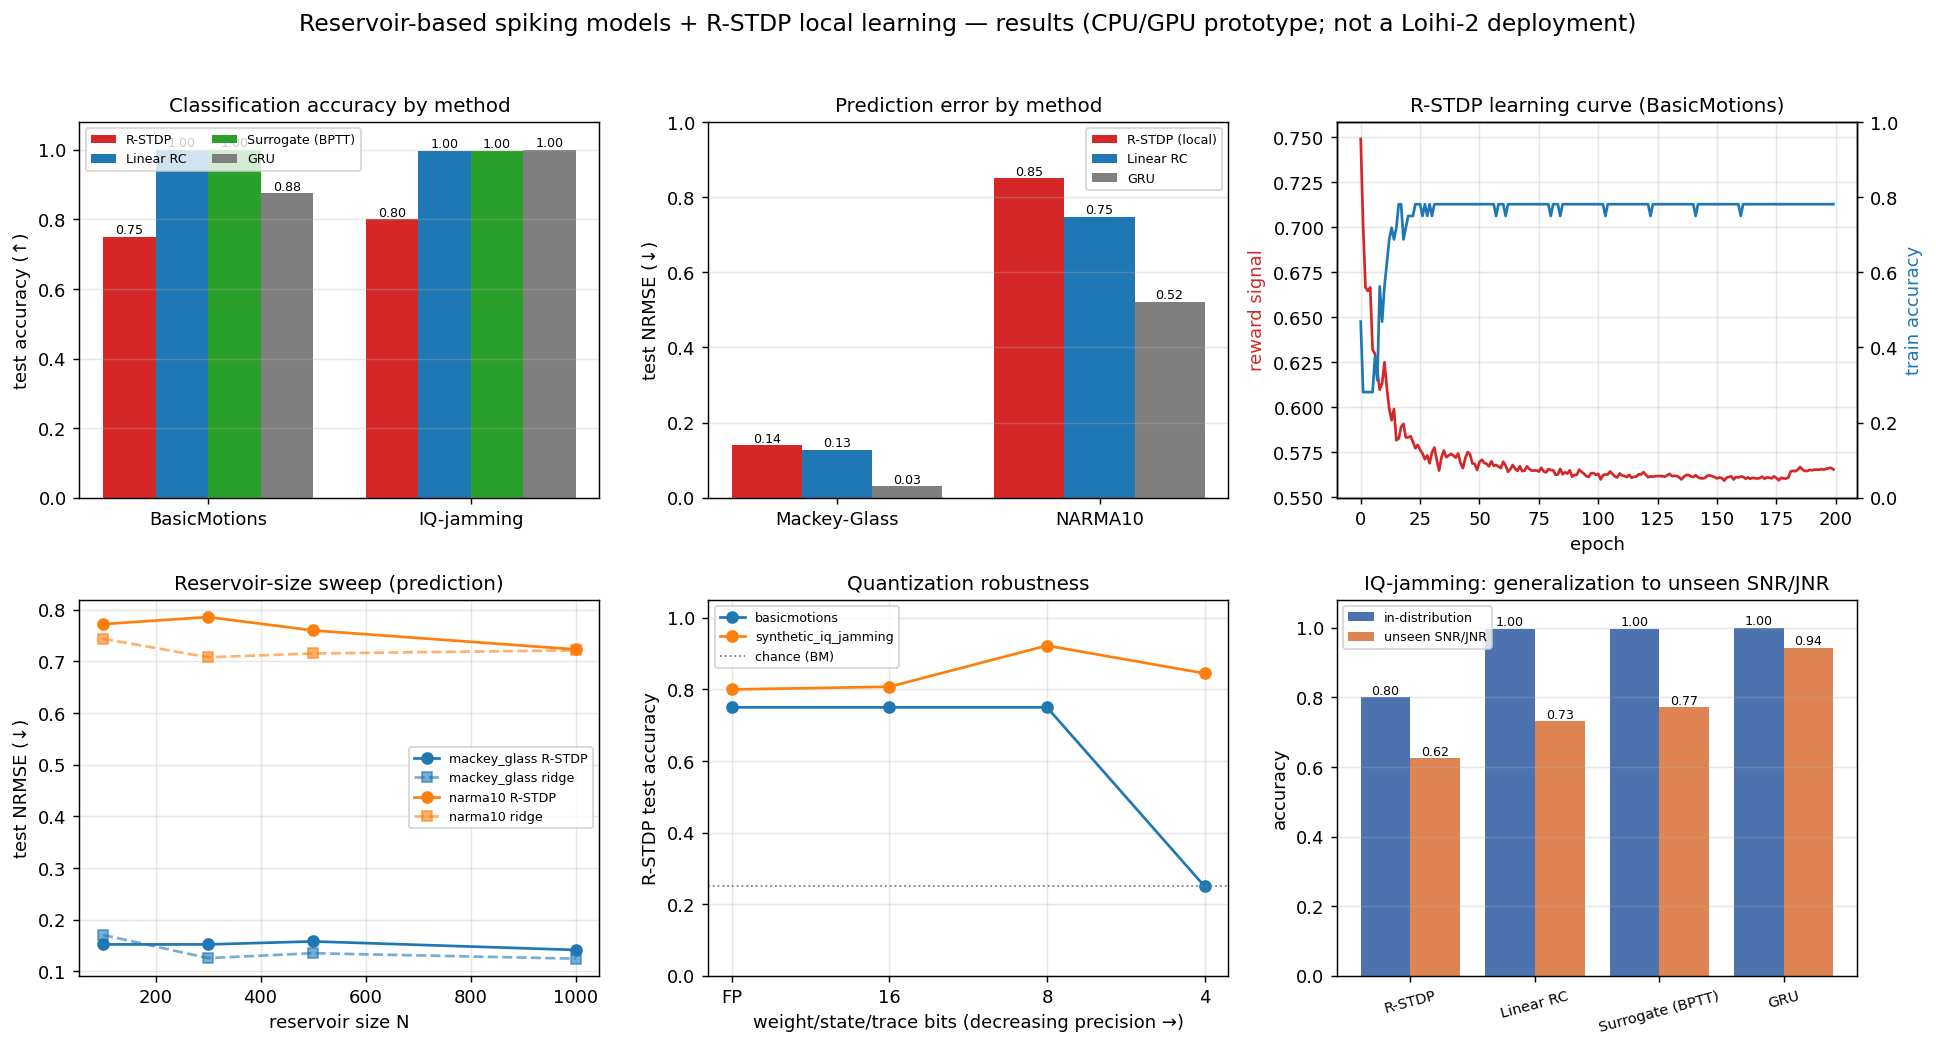
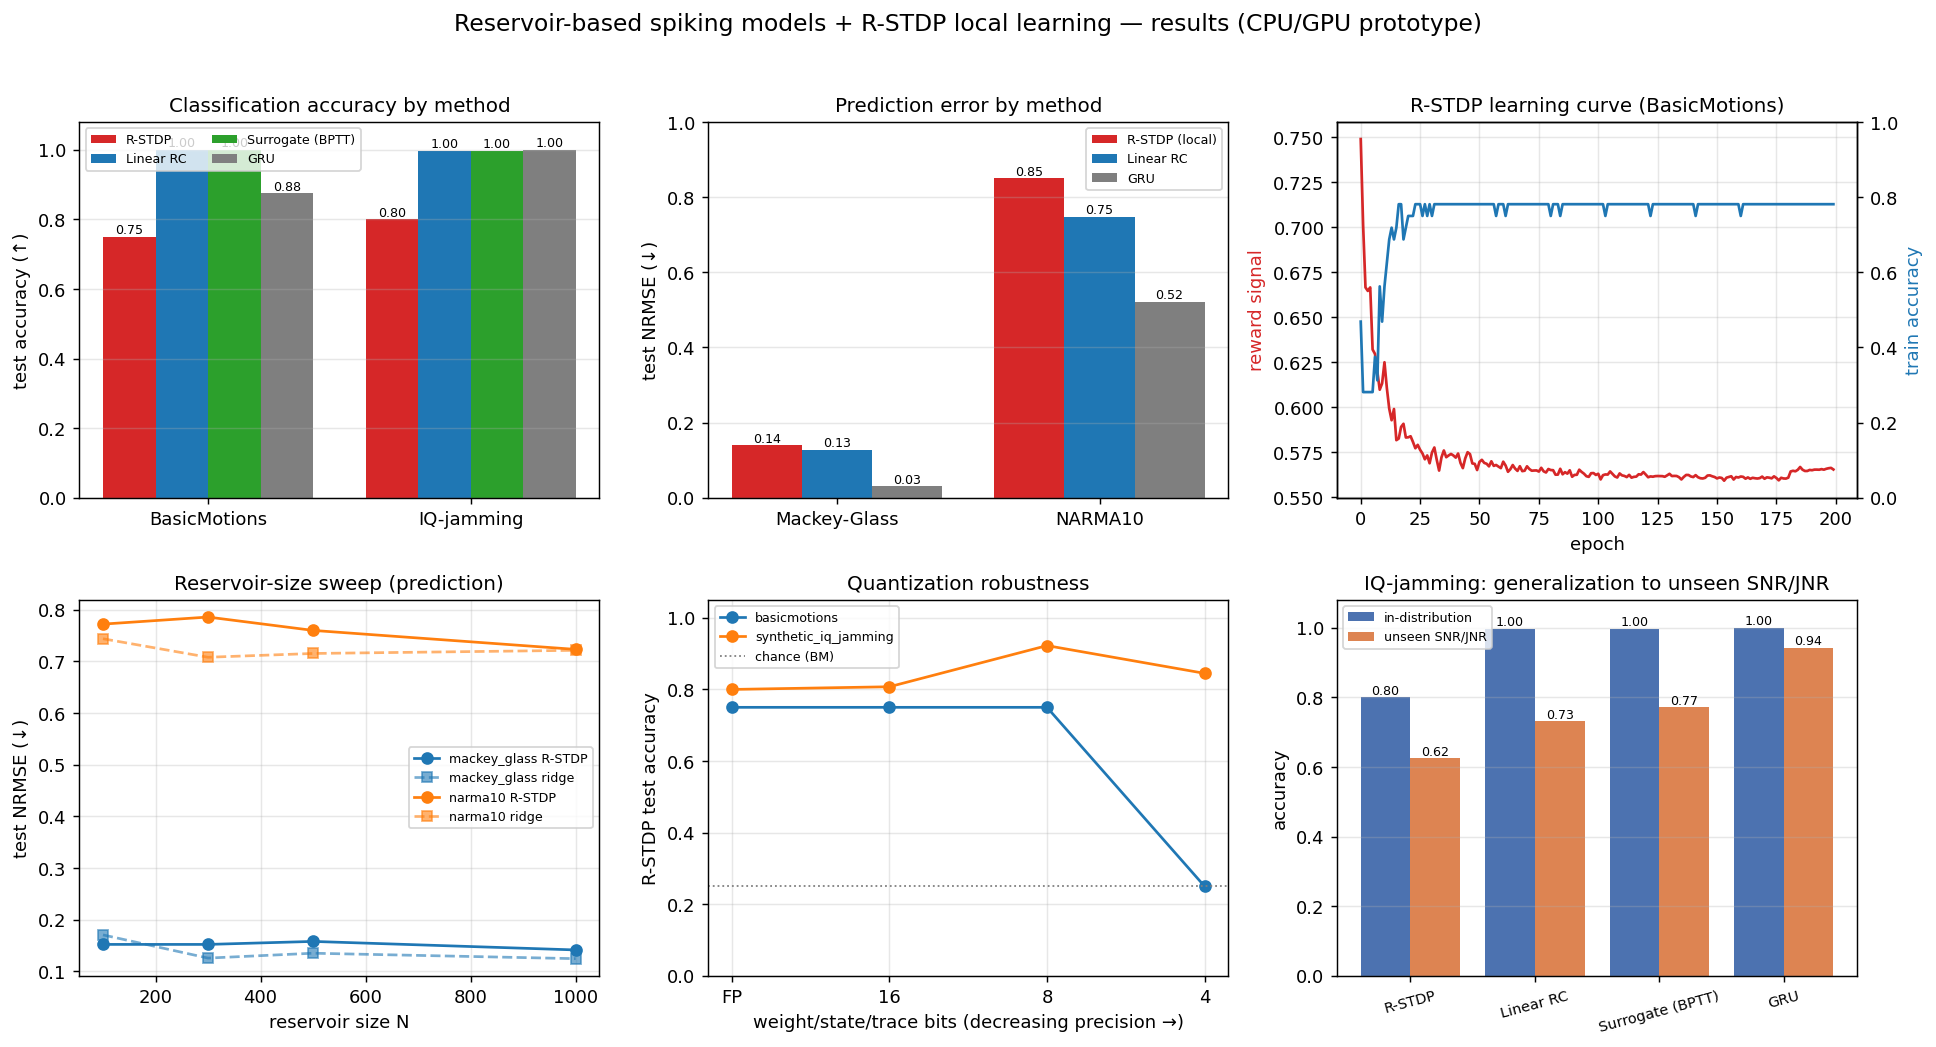
update figures & generation

Changed region(s): [[0.155, 0.0, 0.8368, 0.0306]]

diff --git a/scripts/make_combined_figure.py b/scripts/make_combined_figure.py
@@ -1,0 +1,153 @@
+#!/usr/bin/env python3
+"""Compose a single 'results at a glance' figure from saved artifacts.
+
+Reads (no training):
+  results/<exp>/<method>/metrics.json   (per-experiment method results, curves)
+  results/summary.json                  (sweeps + quant; emitted by make_report_figures.py)
+
+Writes:
+  results/figures/combined_results.png
+
+Run the experiments + `scripts/make_report_figures.py` first so the inputs exist.
+"""
+import json
+import os
+import sys
+
+import numpy as np
+import matplotlib
+matplotlib.use("Agg")
+import matplotlib.pyplot as plt
+
+ROOT = os.path.dirname(os.path.dirname(os.path.abspath(__file__)))
+os.chdir(ROOT)
+
+CLR = {"rstdp": "#d62728", "linear": "#1f77b4", "surrogate": "#2ca02c", "gru": "#7f7f7f"}
+LBL = {"rstdp": "R-STDP", "linear": "Linear RC", "surrogate": "Surrogate (BPTT)", "gru": "GRU"}
+
+
+def load(exp, method):
+    p = f"results/{exp}/{method}/metrics.json"
+    return json.load(open(p)) if os.path.exists(p) else None
+
+
+def grouped_bars(ax, datasets, methods, value_fn, ylabel, title, ylim=None, annotate=True):
+    n = len(methods)
+    width = 0.8 / n
+    x = np.arange(len(datasets))
+    for k, m in enumerate(methods):
+        vals = [value_fn(ds, m) for ds, _ in datasets]
+        bars = ax.bar(x + (k - (n - 1) / 2) * width, vals, width,
+                      label=LBL.get(m, m), color=CLR.get(m, None))
+        if annotate:
+            for b, v in zip(bars, vals):
+                if v is not None and not np.isnan(v):
+                    ax.text(b.get_x() + b.get_width() / 2, v, f"{v:.2f}",
+                            ha="center", va="bottom", fontsize=7)
+    ax.set_xticks(x); ax.set_xticklabels([d for _, d in datasets])
+    ax.set_ylabel(ylabel); ax.set_title(title, fontsize=11)
+    if ylim:
+        ax.set_ylim(*ylim)
+    ax.legend(fontsize=7, ncol=2); ax.grid(axis="y", alpha=0.3)
+
+
+def main():
+    summary = json.load(open("results/summary.json")) if os.path.exists("results/summary.json") else {}
+    fig, axes = plt.subplots(2, 3, figsize=(15, 8))
+
+    # (0,0) classification accuracy ---------------------------------------------
+    clf_ds = [("basicmotions", "BasicMotions"), ("synthetic_iq_jamming", "IQ-jamming")]
+    clf_methods = ["rstdp", "linear", "surrogate", "gru"]
+
+    def clf_val(exp, m):
+        d = load(exp, m)
+        return d.get("test_accuracy") if d else None
+    grouped_bars(axes[0, 0], clf_ds, clf_methods, clf_val,
+                 "test accuracy (↑)", "Classification accuracy by method", ylim=(0, 1.08))
+
+    # (0,1) prediction NRMSE ----------------------------------------------------
+    reg_ds = [("mackey_glass", "Mackey-Glass"), ("narma10", "NARMA10")]
+    reg_methods = ["rstdp", "linear", "gru"]
+
+    def reg_val(exp, m):
+        d = load(exp, m)
+        return d.get("nrmse") if d else None
+    grouped_bars(axes[0, 1], reg_ds, reg_methods, reg_val,
+                 "test NRMSE (↓)", "Prediction error by method", ylim=(0, 1.0))
+    axes[0, 1].legend([LBL[m] if m != "rstdp" else "R-STDP (local)" for m in reg_methods],
+                      fontsize=7)
+
+    # (0,2) R-STDP learning curve (BasicMotions) --------------------------------
+    ax = axes[0, 2]
+    bm = load("basicmotions", "rstdp")
+    if bm and bm.get("reward_curve"):
+        ax.plot(bm["reward_curve"], color="#d62728", label="reward (1 − p_correct)")
+        ax.set_ylabel("reward signal", color="#d62728"); ax.set_xlabel("epoch")
+        ax2 = ax.twinx()
+        ax2.plot(bm.get("train_acc_curve", []), color="#1f77b4", label="train accuracy")
+        ax2.set_ylabel("train accuracy", color="#1f77b4"); ax2.set_ylim(0, 1.0)
+    ax.set_title("R-STDP learning curve (BasicMotions)", fontsize=11)
+    ax.grid(alpha=0.3)
+
+    # (1,0) reservoir-size sweep ------------------------------------------------
+    ax = axes[1, 0]
+    ss = summary.get("size_sweep", {})
+    style = {"mackey_glass": "#1f77b4", "narma10": "#ff7f0e"}
+    for name, d in ss.items():
+        c = style.get(name, None)
+        ax.plot(d["sizes"], d["local"], "o-", color=c, label=f"{name} R-STDP")
+        ax.plot(d["sizes"], d["ridge"], "s--", color=c, alpha=0.6, label=f"{name} ridge")
+    ax.set_xlabel("reservoir size N"); ax.set_ylabel("test NRMSE (↓)")
+    ax.set_title("Reservoir-size sweep (prediction)", fontsize=11)
+    ax.legend(fontsize=7); ax.grid(alpha=0.3)
+
+    # (1,1) quantization robustness ---------------------------------------------
+    ax = axes[1, 1]
+    qs = summary.get("quant_sweep", {})
+    for name, d in qs.items():
+        ax.plot(range(len(d["acc"])), d["acc"], "o-", label=name)
+    ax.axhline(0.25, ls=":", color="gray", lw=1, label="chance (BM)")
+    if qs:
+        bits = next(iter(qs.values()))["bits"]
+        xlabels = ["FP" if b == 0 else str(b) for b in bits]
+        ax.set_xticks(range(len(xlabels))); ax.set_xticklabels(xlabels)
+    ax.set_xlabel("weight/state/trace bits (decreasing precision →)")
+    ax.set_ylabel("R-STDP test accuracy")
+    ax.set_title("Quantization robustness", fontsize=11)
+    ax.legend(fontsize=7); ax.grid(alpha=0.3); ax.set_ylim(0, 1.05)
+
+    # (1,2) IQ-jamming OOD generalization ---------------------------------------
+    ax = axes[1, 2]
+    methods = ["rstdp", "linear", "surrogate", "gru"]
+    indist, ood = [], []
+    for m in methods:
+        d = load("synthetic_iq_jamming", m)
+        indist.append(d.get("test_accuracy") if d else None)
+        ood.append(d.get("test_ood_accuracy") if d else None)
+    x = np.arange(len(methods))
+    ax.bar(x - 0.2, indist, 0.4, label="in-distribution", color="#4c72b0")
+    ax.bar(x + 0.2, ood, 0.4, label="unseen SNR/JNR", color="#dd8452")
+    for xi, (a, b) in enumerate(zip(indist, ood)):
+        if a:
+            ax.text(xi - 0.2, a, f"{a:.2f}", ha="center", va="bottom", fontsize=7)
+        if b:
+            ax.text(xi + 0.2, b, f"{b:.2f}", ha="center", va="bottom", fontsize=7)
+    ax.set_xticks(x); ax.set_xticklabels([LBL[m] for m in methods], fontsize=8, rotation=15)
+    ax.set_ylabel("accuracy"); ax.set_ylim(0, 1.08)
+    ax.set_title("IQ-jamming: generalization to unseen SNR/JNR", fontsize=11)
+    ax.legend(fontsize=7); ax.grid(axis="y", alpha=0.3)
+
+    fig.suptitle("Reservoir-based spiking models + R-STDP local learning — results "
+                 "(CPU/GPU prototype)", fontsize=13, y=1.0)
+    fig.tight_layout(rect=[0, 0, 1, 0.98])
+    out = "results/figures/combined_results.png"
+    fig.savefig(out, dpi=130, bbox_inches="tight")
+    print(f"wrote {out}")
+
+
+if __name__ == "__main__":
+    if not os.path.exists("results/summary.json"):
+        print("NOTE: results/summary.json not found -- run "
+              "`python scripts/make_report_figures.py` first (sweep/quant panels need it).",
+              file=sys.stderr)
+    main()

diff --git a/scripts/make_report_figures.py b/scripts/make_report_figures.py
@@ -105,7 +105,7 @@ def sweep_quant(device):
     for name in ["basicmotions", "synthetic_iq_jamming"]:
         cfg = load_config(f"configs/{name}.yaml")
         bundle = load_dataset(cfg["dataset"], seed=0)
-        bits_list = [0, 4, 8, 12, 16]      # 0 = full precision
+        bits_list = [0, 16, 8, 4]          # 0 = full precision; decreasing precision
         accs, rates = [], []
         ep = cfg.get("training", {}).get("epochs", 200)
         for bits in bits_list:
@@ -211,11 +211,12 @@ def write_summary(size_sweep, quant_sweep, ablations):
             lines.append(f"| {name} | {N} | {r:.3f} | {l:.3f} | {rate:.3f} |")
 
     lines.append("\n## Quantization sweep (R-STDP test accuracy)\n")
-    lines.append("| dataset | FP | 4-bit | 8-bit | 12-bit | 16-bit |")
-    lines.append("|---|---|---|---|---|---|")
+    bits_hdr = next(iter(quant_sweep.values()))["bits"]
+    hdr = ["FP" if b == 0 else f"{b}-bit" for b in bits_hdr]
+    lines.append("| dataset | " + " | ".join(hdr) + " |")
+    lines.append("|---|" + "|".join(["---"] * len(hdr)) + "|")
     for name, d in quant_sweep.items():
-        a = d["acc"]
-        lines.append(f"| {name} | {a[0]:.3f} | {a[1]:.3f} | {a[2]:.3f} | {a[3]:.3f} | {a[4]:.3f} |")
+        lines.append(f"| {name} | " + " | ".join(f"{a:.3f}" for a in d["acc"]) + " |")
 
     lines.append("\n## Ablations (BasicMotions, R-STDP readout)\n")
     lines.append("| ablation | test_acc | reservoir_rate | output_rate |")
@@ -225,7 +226,13 @@ def write_summary(size_sweep, quant_sweep, ablations):
 
     with open("results/SUMMARY.md", "w") as f:
         f.write("\n".join(lines) + "\n")
-    print("wrote results/SUMMARY.md and figures in results/figures/")
+
+    # machine-readable dump so the combined-figure composer can read it without
+    # re-running any training.
+    import json
+    json.dump({"size_sweep": size_sweep, "quant_sweep": quant_sweep,
+               "ablations": ablations}, open("results/summary.json", "w"), indent=2)
+    print("wrote results/SUMMARY.md, results/summary.json and figures in results/figures/")
 
 
 def main():